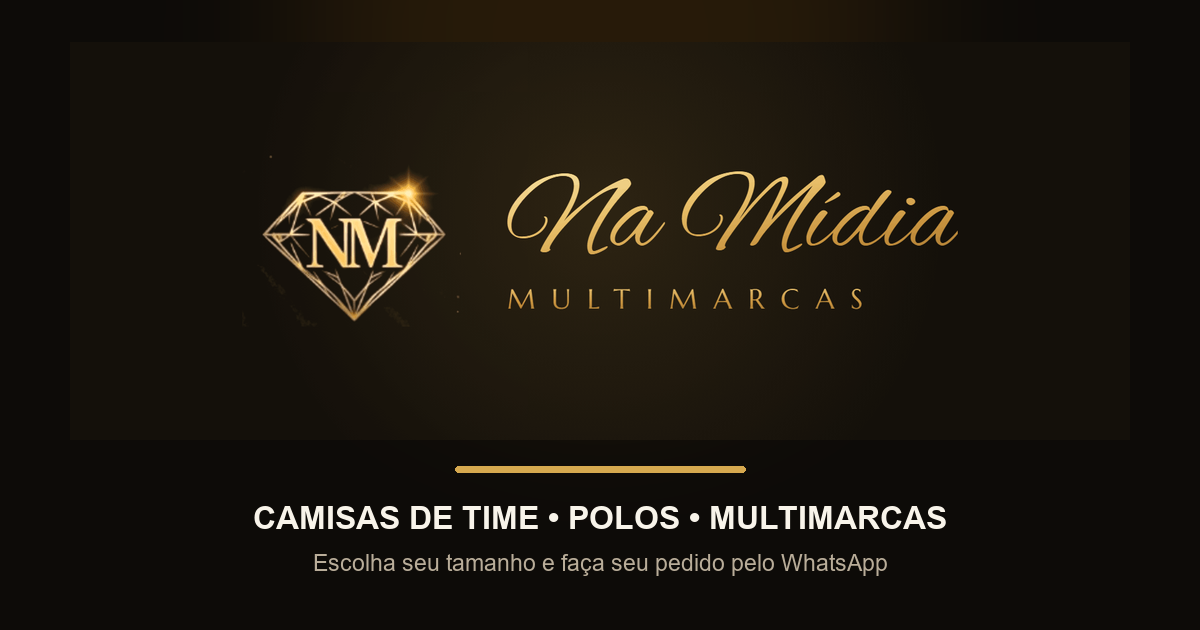
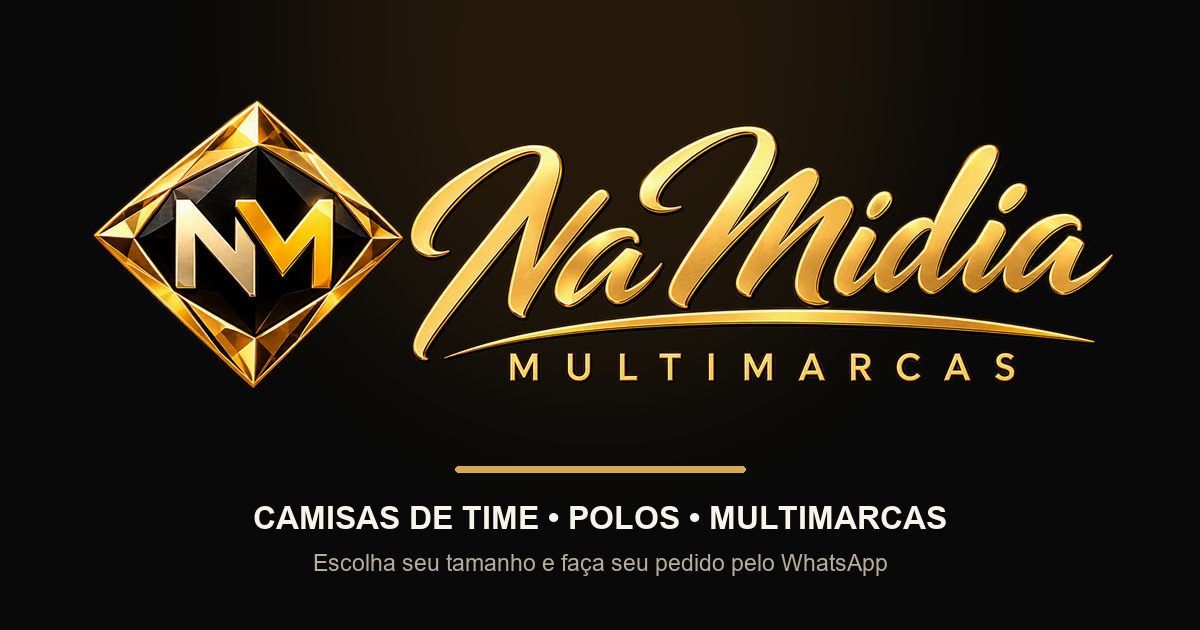
Corrige previa com identidade visual aprovada

Changed region(s): [[0.0617, 0.1508, 0.925, 0.6333]]

diff --git a/index.html b/index.html
@@ -12,8 +12,8 @@
 <meta property="og:title" content="Na Mídia Multimarcas — Camisas e polos">
 <meta property="og:description" content="Escolha seus produtos, monte sua sacola e envie seu pedido pelo WhatsApp.">
 <meta property="og:url" content="https://compann.github.io/NamidiaMultimarcas/">
-<meta property="og:image" content="https://compann.github.io/NamidiaMultimarcas/images/preview-whatsapp.png?v=2">
-<meta property="og:image:secure_url" content="https://compann.github.io/NamidiaMultimarcas/images/preview-whatsapp.png?v=2">
+<meta property="og:image" content="https://compann.github.io/NamidiaMultimarcas/images/preview-whatsapp.png?v=3">
+<meta property="og:image:secure_url" content="https://compann.github.io/NamidiaMultimarcas/images/preview-whatsapp.png?v=3">
 <meta property="og:image:type" content="image/png">
 <meta property="og:image:width" content="1200">
 <meta property="og:image:height" content="630">
@@ -21,7 +21,7 @@
 <meta name="twitter:card" content="summary_large_image">
 <meta name="twitter:title" content="Na Mídia Multimarcas — Camisas e polos">
 <meta name="twitter:description" content="Escolha seus produtos, monte sua sacola e envie seu pedido pelo WhatsApp.">
-<meta name="twitter:image" content="https://compann.github.io/NamidiaMultimarcas/images/preview-whatsapp.png?v=2">
+<meta name="twitter:image" content="https://compann.github.io/NamidiaMultimarcas/images/preview-whatsapp.png?v=3">
 <meta name="description" content="Loja Na Mídia Multimarcas. Escolha seus produtos, monte sua sacola e finalize o pedido pelo WhatsApp.">
 <link rel="preconnect" href="https://fonts.googleapis.com">
 <link rel="preconnect" href="https://fonts.gstatic.com" crossorigin>

diff --git a/generate-share-preview.py b/generate-share-preview.py
@@ -2,11 +2,11 @@ from pathlib import Path
 from PIL import Image, ImageDraw, ImageFont, ImageFilter
 
 ROOT = Path(__file__).parent
-SOURCE = ROOT / "images" / "02 - Logo Horizontal.png"
+SOURCE = ROOT / "images" / "namidia-aprovada.png"
 OUTPUT = ROOT / "images" / "preview-whatsapp.png"
 W, H = 1200, 630
 
-canvas = Image.new("RGB", (W, H), "#0d0b08")
+canvas = Image.new("RGB", (W, H), "#090909")
 
 # Luz dourada discreta para manter a identidade da marca sem prejudicar a leitura.
 glow = Image.new("RGBA", (W, H), (0, 0, 0, 0))
@@ -15,9 +15,9 @@ gd.ellipse((250, -260, 950, 440), fill=(185, 113, 18, 38))
 glow = glow.filter(ImageFilter.GaussianBlur(95))
 canvas = Image.alpha_composite(canvas.convert("RGBA"), glow)
 
-logo = Image.open(SOURCE).convert("RGB")
+logo = Image.open(SOURCE).convert("RGBA")
 logo.thumbnail((1060, 405), Image.Resampling.LANCZOS)
-canvas.paste(logo, ((W - logo.width) // 2, 42))
+canvas.alpha_composite(logo, ((W - logo.width) // 2, 64))
 
 draw = ImageDraw.Draw(canvas)
 gold = "#d6a94f"
